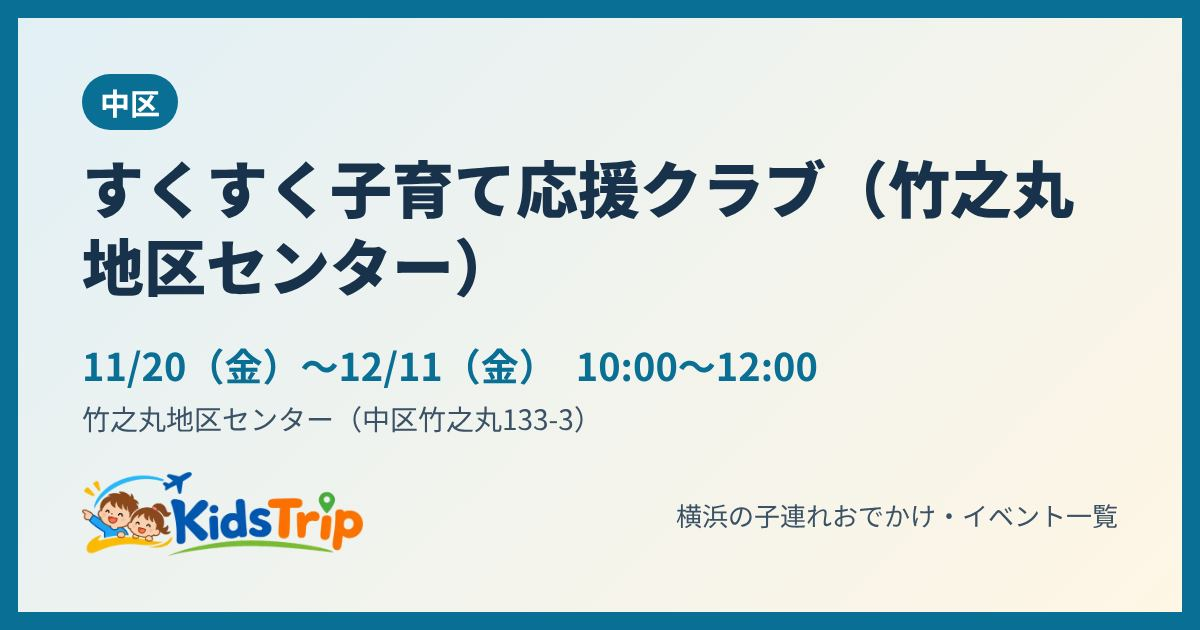
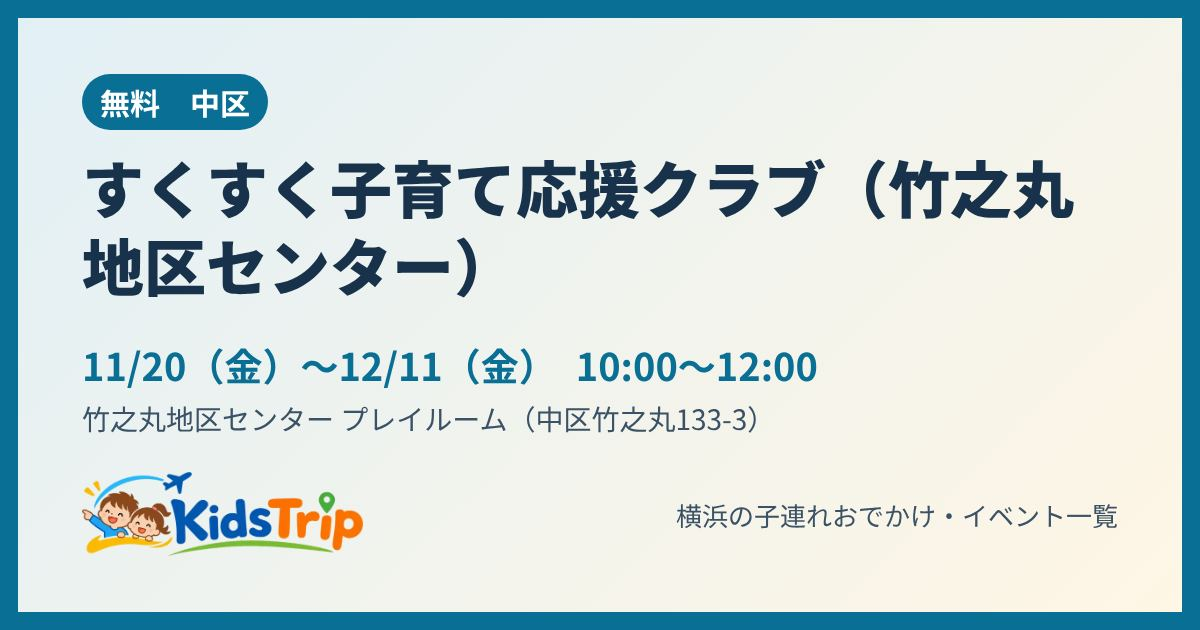
キンダーフェスタ（時間・チャレンジの料金と定員・申込ページ）、竹之丸すくすく子育て応援クラブ（無料・当日申込可）、コナン芸術花火（席の料金・市民割終了・入場口）を、利用者が送った公式ページの画面で更新
Claude-Session: https://claude.ai/code/session_014AtJ2h26UP5ukGbsStrCij

Changed region(s): [[0.2775, 0.6333, 0.6475, 0.6937], [0.0617, 0.0905, 0.2467, 0.2111]]

diff --git a/event/1ktoiqq/index.html b/event/1ktoiqq/index.html
@@ -4,12 +4,12 @@
 <meta charset="utf-8">
 <meta name="viewport" content="width=device-width, initial-scale=1">
 <title>はつらつキンダーフェスタYokohama in 横浜BUNTAI（中区）｜横浜の子連れイベント｜KidsTrip</title>
-<meta name="description" content="11月23日(月)　横浜BUNTAI（中区不老町2-7-1）。親子でいろいろなスポーツを体験できるイベント。100m日本チャンピオンのかけっこ教室、カバディ・体操教室、車いすバスケ体験のほか、ダンス・チア・スポーツチャンバラなども。">
+<meta name="description" content="11月23日(月)　横浜BUNTAI（中区不老町2-7-1）。親子でいろいろなスポーツを体験できる屋内イベント。日本選手権100m優勝の多田修平さんのかけっこ教室、カバディ日本代表主将の下川正將さんのカバディ教室、シダックスさんの体操教室、">
 <link rel="canonical" href="https://kidstrip.jp/event/1ktoiqq/">
 <meta property="og:type" content="article">
 <meta property="og:site_name" content="KidsTrip">
 <meta property="og:title" content="はつらつキンダーフェスタYokohama in 横浜BUNTAI（中区）｜横浜の子連れイベント｜KidsTrip">
-<meta property="og:description" content="11月23日(月)　横浜BUNTAI（中区不老町2-7-1）。親子でいろいろなスポーツを体験できるイベント。100m日本チャンピオンのかけっこ教室、カバディ・体操教室、車いすバスケ体験のほか、ダンス・チア・スポーツチャンバラなども。">
+<meta property="og:description" content="11月23日(月)　横浜BUNTAI（中区不老町2-7-1）。親子でいろいろなスポーツを体験できる屋内イベント。日本選手権100m優勝の多田修平さんのかけっこ教室、カバディ日本代表主将の下川正將さんのカバディ教室、シダックスさんの体操教室、">
 <meta property="og:url" content="https://kidstrip.jp/event/1ktoiqq/">
 <meta property="og:image" content="https://kidstrip.jp/og/1ktoiqq.jpg">
 <meta property="og:image:width" content="1200">
@@ -19,7 +19,7 @@
 <link rel="icon" href="../../img/favicon.png">
 <link rel="apple-touch-icon" href="../../img/apple-touch-icon.png">
 <script type="application/ld+json">{"@context": "https://schema.org", "@type": "BreadcrumbList", "itemListElement": [{"@type": "ListItem", "position": 1, "name": "トップ", "item": "https://kidstrip.jp/"}, {"@type": "ListItem", "position": 2, "name": "イベント", "item": "https://kidstrip.jp/"}, {"@type": "ListItem", "position": 3, "name": "はつらつキンダーフェスタYokohama in 横浜BUNTAI"}]}</script>
-<script type="application/ld+json">{"@context": "https://schema.org", "@type": "Event", "name": "はつらつキンダーフェスタYokohama in 横浜BUNTAI", "startDate": "2026-11-23T11:00:00+09:00", "endDate": "2026-11-23", "eventStatus": "https://schema.org/EventScheduled", "eventAttendanceMode": "https://schema.org/OfflineEventAttendanceMode", "location": {"@type": "Place", "name": "横浜BUNTAI（中区不老町2-7-1）", "address": {"@type": "PostalAddress", "addressLocality": "横浜市中区", "addressRegion": "神奈川県", "addressCountry": "JP"}}, "description": "親子でいろいろなスポーツを体験できるイベント。100m日本チャンピオンのかけっこ教室、カバディ・体操教室、車いすバスケ体験のほか、ダンス・チア・スポーツチャンバラなども。", "image": ["https://kidstrip.jp/og/1ktoiqq.jpg"], "url": "https://kidstrip.jp/event/1ktoiqq/", "isAccessibleForFree": false, "inLanguage": "ja"}</script>
+<script type="application/ld+json">{"@context": "https://schema.org", "@type": "Event", "name": "はつらつキンダーフェスタYokohama in 横浜BUNTAI", "startDate": "2026-11-23T11:00:00+09:00", "endDate": "2026-11-23", "eventStatus": "https://schema.org/EventScheduled", "eventAttendanceMode": "https://schema.org/OfflineEventAttendanceMode", "location": {"@type": "Place", "name": "横浜BUNTAI（中区不老町2-7-1）", "address": {"@type": "PostalAddress", "addressLocality": "横浜市中区", "addressRegion": "神奈川県", "addressCountry": "JP"}}, "description": "親子でいろいろなスポーツを体験できる屋内イベント。日本選手権100m優勝の多田修平さんのかけっこ教室、カバディ日本代表主将の下川正將さんのカバディ教室、シダックスさんの体操教室、車いすバスケ日本代表の網本麻里選手の体験会、横浜エクセレンスのブース、ダンス・チア・スポーツチャンバラ・サイバーホイール体験など。", "image": ["https://kidstrip.jp/og/1ktoiqq.jpg"], "url": "https://kidstrip.jp/event/1ktoiqq/", "isAccessibleForFree": false, "inLanguage": "ja"}</script>
 <style>
 :root{--paper:#f8fafc;--card:#fff;--ink:#18222e;--muted:#5b6875;--line:#dde3e9;--accent:#0a6f95;--accent-soft:#e2f0f6;--ok:#2e7d4f;--bad:#b3372b}
 *{box-sizing:border-box}body{margin:0;background:var(--paper);color:var(--ink);font-family:"Zen Kaku Gothic New","Hiragino Kaku Gothic ProN","Yu Gothic","Meiryo",sans-serif;line-height:1.7}
@@ -49,20 +49,20 @@ footer{margin:28px 0 8px;font-size:12px;color:var(--muted)}
 <ul class="chips"><li>有料</li><li>3〜9歳の子どもと保護者</li><li>屋内</li><li>雨でもOK</li></ul>
 <table class="info">
 <tr><th>日にち</th><td>11月23日(月)</td></tr>
-<tr><th>時間</th><td>11:00〜15:00</td></tr>
+<tr><th>時間</th><td>11:00〜15:00（受付10:30〜、入場10:45〜。出入り自由）</td></tr>
 <tr><th>場所</th><td>中区・横浜BUNTAI（中区不老町2-7-1）</td></tr>
-<tr><th>料金</th><td>入場500円（1人・3歳未満は無料）。「日本一」のスポーツチャレンジは子ども1人1種目1,000円（保険込み・付き添いの保護者1人まで）</td></tr>
+<tr><th>料金</th><td>入場1人500円（3歳未満は無料）。「日本一」のスポーツチャレンジは別料金：かけっこ教室1,000円・体操教室1,000円・カバディ教室500円（保険込み。カバディは概要の「各種目1,000円」と食い違っていて、情報が分かれています）</td></tr>
 <tr><th>対象</th><td>3〜9歳の子どもと保護者</td></tr>
-<tr><th>予約</th><td>申込サイトから申し込む（締め切りは公式ページに記載なし）</td></tr>
+<tr><th>予約</th><td>入場券・チャレンジとも公式の申込ページ（オンラインショップ）で購入し、確認メールを当日受付で見せてリストバンドを受け取る。チャレンジは「近日募集開始」とあり、受付開始は公式で確認を</td></tr>
 <tr><th>雨の日</th><td>雨でもOK（屋内の体育館）</td></tr>
 </table>
-<p class="sum">親子でいろいろなスポーツを体験できるイベント。100m日本チャンピオンのかけっこ教室、カバディ・体操教室、車いすバスケ体験のほか、ダンス・チア・スポーツチャンバラなども。</p>
-<p class="tip">💡 動きやすい服と靴で。チャレンジは種目ごとに参加費がかかるので、やりたいものを先に決めておくと安心</p>
-<p class="small">情報の時点：2026年11月17日　出典：横浜市スポーツ協会 公式</p>
-<div class="btns"><a class="btn main" data-act="official" href="https://yokohama-sport.or.jp/event/post-6694/" target="_blank" rel="noopener">公式ページで確認</a>
+<p class="sum">親子でいろいろなスポーツを体験できる屋内イベント。日本選手権100m優勝の多田修平さんのかけっこ教室、カバディ日本代表主将の下川正將さんのカバディ教室、シダックスさんの体操教室、車いすバスケ日本代表の網本麻里選手の体験会、横浜エクセレンスのブース、ダンス・チア・スポーツチャンバラ・サイバーホイール体験など。</p>
+<p class="tip">💡 チャレンジは時間と定員が決まっている（かけっこ11:00〜12:00 先着20名、カバディ12:15〜13:15の3回 各12名、体操13:30〜14:30 先着40名）。3歳未満はチャレンジに参加できない。動きやすい服と靴で</p>
+<p class="small">情報の時点：2026年11月18日　出典：横浜市スポーツ協会 公式・はつらつキンダーフェスタ申込ページ（利用者が送った画面・2026年11月）</p>
+<div class="btns"><a class="btn main" data-act="official" href="https://yokohama-sport.or.jp/event/post-6694/" target="_blank" rel="noopener">公式ページで確認</a><a class="btn" data-act="resv" href="https://iz8a1.hp.peraichi.com/" target="_blank" rel="noopener">予約ページへ</a>
 <a class="btn" href="/?e=1ktoiqq">一覧で見る（行き方・近くのごはん）</a>
 <button type="button" class="btn" data-share="1">🔗 リンクを送る・コピー</button>
-<a class="btn line" href="https://line.me/R/share?text=%E3%80%90%E3%81%AF%E3%81%A4%E3%82%89%E3%81%A4%E3%82%AD%E3%83%B3%E3%83%80%E3%83%BC%E3%83%95%E3%82%A7%E3%82%B9%E3%82%BFYokohama%20in%20%E6%A8%AA%E6%B5%9CBUNTAI%E3%80%91%0A11%E6%9C%8823%E6%97%A5%28%E6%9C%88%29%E3%80%8011%3A00%E3%80%9C15%3A00%0A%E5%A0%B4%E6%89%80%EF%BC%9A%E4%B8%AD%E5%8C%BA%E3%83%BB%E6%A8%AA%E6%B5%9CBUNTAI%EF%BC%88%E4%B8%AD%E5%8C%BA%E4%B8%8D%E8%80%81%E7%94%BA2-7-1%EF%BC%89%0Ahttps%3A//kidstrip.jp/event/1ktoiqq/" target="_blank" rel="noopener">LINEで送る</a></div>
+<a class="btn line" href="https://line.me/R/share?text=%E3%80%90%E3%81%AF%E3%81%A4%E3%82%89%E3%81%A4%E3%82%AD%E3%83%B3%E3%83%80%E3%83%BC%E3%83%95%E3%82%A7%E3%82%B9%E3%82%BFYokohama%20in%20%E6%A8%AA%E6%B5%9CBUNTAI%E3%80%91%0A11%E6%9C%8823%E6%97%A5%28%E6%9C%88%29%E3%80%8011%3A00%E3%80%9C15%3A00%EF%BC%88%E5%8F%97%E4%BB%9810%3A30%E3%80%9C%E3%80%81%E5%85%A5%E5%A0%B410%3A45%E3%80%9C%E3%80%82%E5%87%BA%E5%85%A5%E3%82%8A%E8%87%AA%E7%94%B1%EF%BC%89%0A%E5%A0%B4%E6%89%80%EF%BC%9A%E4%B8%AD%E5%8C%BA%E3%83%BB%E6%A8%AA%E6%B5%9CBUNTAI%EF%BC%88%E4%B8%AD%E5%8C%BA%E4%B8%8D%E8%80%81%E7%94%BA2-7-1%EF%BC%89%0Ahttps%3A//kidstrip.jp/event/1ktoiqq/" target="_blank" rel="noopener">LINEで送る</a></div>
 </article>
 
 

diff --git a/event/hyblin/index.html b/event/hyblin/index.html
@@ -4,12 +4,12 @@
 <meta charset="utf-8">
 <meta name="viewport" content="width=device-width, initial-scale=1">
 <title>すくすく子育て応援クラブ（竹之丸地区センター）（中区）｜横浜の子連れイベント｜KidsTrip</title>
-<meta name="description" content="11月20日(金)・12月11日(金)　竹之丸地区センター（中区竹之丸133-3）。竹之丸地区センターの子育て応援の会。">
+<meta name="description" content="11月20日(金)・12月11日(金)　竹之丸地区センター プレイルーム（中区竹之丸133-3）。絵本の読み聞かせや手遊びで子どもを遊ばせながら、気軽に子育ての相談ができる会。相談がなくても遊びに来てよい。">
 <link rel="canonical" href="https://kidstrip.jp/event/hyblin/">
 <meta property="og:type" content="article">
 <meta property="og:site_name" content="KidsTrip">
 <meta property="og:title" content="すくすく子育て応援クラブ（竹之丸地区センター）（中区）｜横浜の子連れイベント｜KidsTrip">
-<meta property="og:description" content="11月20日(金)・12月11日(金)　竹之丸地区センター（中区竹之丸133-3）。竹之丸地区センターの子育て応援の会。">
+<meta property="og:description" content="11月20日(金)・12月11日(金)　竹之丸地区センター プレイルーム（中区竹之丸133-3）。絵本の読み聞かせや手遊びで子どもを遊ばせながら、気軽に子育ての相談ができる会。相談がなくても遊びに来てよい。">
 <meta property="og:url" content="https://kidstrip.jp/event/hyblin/">
 <meta property="og:image" content="https://kidstrip.jp/og/hyblin.jpg">
 <meta property="og:image:width" content="1200">
@@ -19,7 +19,7 @@
 <link rel="icon" href="../../img/favicon.png">
 <link rel="apple-touch-icon" href="../../img/apple-touch-icon.png">
 <script type="application/ld+json">{"@context": "https://schema.org", "@type": "BreadcrumbList", "itemListElement": [{"@type": "ListItem", "position": 1, "name": "トップ", "item": "https://kidstrip.jp/"}, {"@type": "ListItem", "position": 2, "name": "イベント", "item": "https://kidstrip.jp/"}, {"@type": "ListItem", "position": 3, "name": "すくすく子育て応援クラブ（竹之丸地区センター）"}]}</script>
-<script type="application/ld+json">{"@context": "https://schema.org", "@type": "Event", "name": "すくすく子育て応援クラブ（竹之丸地区センター）", "startDate": "2026-11-20", "endDate": "2026-12-11", "eventStatus": "https://schema.org/EventScheduled", "eventAttendanceMode": "https://schema.org/OfflineEventAttendanceMode", "location": {"@type": "Place", "name": "竹之丸地区センター（中区竹之丸133-3）", "address": {"@type": "PostalAddress", "addressLocality": "横浜市中区", "addressRegion": "神奈川県", "addressCountry": "JP"}}, "description": "竹之丸地区センターの子育て応援の会。", "image": ["https://kidstrip.jp/og/hyblin.jpg"], "url": "https://kidstrip.jp/event/hyblin/", "isAccessibleForFree": false, "inLanguage": "ja"}</script>
+<script type="application/ld+json">{"@context": "https://schema.org", "@type": "Event", "name": "すくすく子育て応援クラブ（竹之丸地区センター）", "startDate": "2026-11-20", "endDate": "2026-12-11", "eventStatus": "https://schema.org/EventScheduled", "eventAttendanceMode": "https://schema.org/OfflineEventAttendanceMode", "location": {"@type": "Place", "name": "竹之丸地区センター プレイルーム（中区竹之丸133-3）", "address": {"@type": "PostalAddress", "addressLocality": "横浜市中区", "addressRegion": "神奈川県", "addressCountry": "JP"}}, "description": "絵本の読み聞かせや手遊びで子どもを遊ばせながら、気軽に子育ての相談ができる会。相談がなくても遊びに来てよい。", "image": ["https://kidstrip.jp/og/hyblin.jpg"], "url": "https://kidstrip.jp/event/hyblin/", "isAccessibleForFree": true, "inLanguage": "ja"}</script>
 <style>
 :root{--paper:#f8fafc;--card:#fff;--ink:#18222e;--muted:#5b6875;--line:#dde3e9;--accent:#0a6f95;--accent-soft:#e2f0f6;--ok:#2e7d4f;--bad:#b3372b}
 *{box-sizing:border-box}body{margin:0;background:var(--paper);color:var(--ink);font-family:"Zen Kaku Gothic New","Hiragino Kaku Gothic ProN","Yu Gothic","Meiryo",sans-serif;line-height:1.7}
@@ -46,23 +46,23 @@ footer{margin:28px 0 8px;font-size:12px;color:var(--muted)}
 <p class="crumb"><a href="/">トップ</a> ＞ <a href="/">イベント</a> ＞ すくすく子育て応援クラブ（竹之丸地区センター）</p>
 <article class="card">
 <h1>すくすく子育て応援クラブ（竹之丸地区センター）</h1>
-<ul class="chips"><li>料金要確認</li><li>子育て中の親子（対象は未確認）</li><li>屋内</li><li>雨でもOK</li></ul>
+<ul class="chips"><li>無料</li><li>乳児・未就学児と保護者</li><li>屋内</li><li>雨でもOK</li></ul>
 <table class="info">
 <tr><th>日にち</th><td>11月20日(金)・12月11日(金)</td></tr>
 <tr><th>時間</th><td>10:00〜12:00</td></tr>
-<tr><th>場所</th><td>中区・竹之丸地区センター（中区竹之丸133-3）</td></tr>
-<tr><th>料金</th><td>公式ページで未確認（くわしくは電話で）</td></tr>
-<tr><th>対象</th><td>子育て中の親子（対象は未確認）</td></tr>
-<tr><th>予約</th><td>公式ページで未確認（くわしくは電話で） 045-651-5575</td></tr>
+<tr><th>場所</th><td>中区・竹之丸地区センター プレイルーム（中区竹之丸133-3）</td></tr>
+<tr><th>料金</th><td>無料</td></tr>
+<tr><th>対象</th><td>乳児・未就学児と保護者</td></tr>
+<tr><th>予約</th><td>電話（045-651-5575）か来館で申込。当日申込もできる（定員15人）</td></tr>
 <tr><th>雨の日</th><td>雨でもOK（屋内なので雨でもOK）</td></tr>
 </table>
-<p class="sum">竹之丸地区センターの子育て応援の会。</p>
-<p class="tip">💡 対象・料金・申し込みは一覧に載っておらず未確認。行く前に電話（045-651-5575）で確かめて。</p>
-<p class="small">情報の時点：2026年11月17日　出典：竹之丸地区センター公式（講座・イベント一覧）</p>
+<p class="sum">絵本の読み聞かせや手遊びで子どもを遊ばせながら、気軽に子育ての相談ができる会。相談がなくても遊びに来てよい。</p>
+<p class="tip">💡 12/11の回の内容は公式で確認を。</p>
+<p class="small">情報の時点：2026年11月18日　出典：竹之丸地区センター公式（利用者が送った画面・2026年11月）</p>
 <div class="btns"><a class="btn main" data-act="official" href="https://www.nakakumin.com/takenomaruchikusen/smartphone/eventdetail.cgi?1763856946" target="_blank" rel="noopener">公式ページで確認</a>
 <a class="btn" href="/?e=hyblin">一覧で見る（行き方・近くのごはん）</a>
 <button type="button" class="btn" data-share="1">🔗 リンクを送る・コピー</button>
-<a class="btn line" href="https://line.me/R/share?text=%E3%80%90%E3%81%99%E3%81%8F%E3%81%99%E3%81%8F%E5%AD%90%E8%82%B2%E3%81%A6%E5%BF%9C%E6%8F%B4%E3%82%AF%E3%83%A9%E3%83%96%EF%BC%88%E7%AB%B9%E4%B9%8B%E4%B8%B8%E5%9C%B0%E5%8C%BA%E3%82%BB%E3%83%B3%E3%82%BF%E3%83%BC%EF%BC%89%E3%80%91%0A11%E6%9C%8820%E6%97%A5%28%E9%87%91%29%E3%83%BB12%E6%9C%8811%E6%97%A5%28%E9%87%91%29%E3%80%8010%3A00%E3%80%9C12%3A00%0A%E5%A0%B4%E6%89%80%EF%BC%9A%E4%B8%AD%E5%8C%BA%E3%83%BB%E7%AB%B9%E4%B9%8B%E4%B8%B8%E5%9C%B0%E5%8C%BA%E3%82%BB%E3%83%B3%E3%82%BF%E3%83%BC%EF%BC%88%E4%B8%AD%E5%8C%BA%E7%AB%B9%E4%B9%8B%E4%B8%B8133-3%EF%BC%89%0Ahttps%3A//kidstrip.jp/event/hyblin/" target="_blank" rel="noopener">LINEで送る</a></div>
+<a class="btn line" href="https://line.me/R/share?text=%E3%80%90%E3%81%99%E3%81%8F%E3%81%99%E3%81%8F%E5%AD%90%E8%82%B2%E3%81%A6%E5%BF%9C%E6%8F%B4%E3%82%AF%E3%83%A9%E3%83%96%EF%BC%88%E7%AB%B9%E4%B9%8B%E4%B8%B8%E5%9C%B0%E5%8C%BA%E3%82%BB%E3%83%B3%E3%82%BF%E3%83%BC%EF%BC%89%E3%80%91%0A11%E6%9C%8820%E6%97%A5%28%E9%87%91%29%E3%83%BB12%E6%9C%8811%E6%97%A5%28%E9%87%91%29%E3%80%8010%3A00%E3%80%9C12%3A00%0A%E5%A0%B4%E6%89%80%EF%BC%9A%E4%B8%AD%E5%8C%BA%E3%83%BB%E7%AB%B9%E4%B9%8B%E4%B8%B8%E5%9C%B0%E5%8C%BA%E3%82%BB%E3%83%B3%E3%82%BF%E3%83%BC%20%E3%83%97%E3%83%AC%E3%82%A4%E3%83%AB%E3%83%BC%E3%83%A0%EF%BC%88%E4%B8%AD%E5%8C%BA%E7%AB%B9%E4%B9%8B%E4%B8%B8133-3%EF%BC%89%0Ahttps%3A//kidstrip.jp/event/hyblin/" target="_blank" rel="noopener">LINEで送る</a></div>
 </article>
 
 

diff --git a/event/13npv30/index.html b/event/13npv30/index.html
@@ -51,14 +51,14 @@ footer{margin:28px 0 8px;font-size:12px;color:var(--muted)}
 <tr><th>日にち</th><td>11月21日(土)</td></tr>
 <tr><th>時間</th><td>13:00開場・17:00開演</td></tr>
 <tr><th>場所</th><td>中区・横浜・山下ふ頭</td></tr>
-<tr><th>料金</th><td>S席8,900円〜（未就学児は席が不要なら無料）</td></tr>
+<tr><th>料金</th><td>S席8,900円、S席（グッズ付き）12,500円、最前ブロックプレミアム席（グッズ付き）14,500円。未就学児はひざの上で見るならチケット不要（席が要るなら必要）</td></tr>
 <tr><th>対象</th><td>全年齢</td></tr>
-<tr><th>予約</th><td>チケット制（全席有料・無料観覧エリアなし）</td></tr>
+<tr><th>予約</th><td>チケット制（全席有料。イープラス・チケットぴあ・ローソン・アソビューなど。1回4枚まで）</td></tr>
 <tr><th>雨の日</th><td>天気に注意（雨でも開催、荒天時は中止）</td></tr>
 </table>
 <p class="sum">コナンの歴代主題歌や劇中音楽に合わせて花火が上がる、TVアニメ30周年記念の一夜限りのショー。</p>
-<p class="tip">💡 横浜市民割（先着）もあり。外から見る無料エリアはないので注意</p>
-<p class="small">出典：公式サイト</p>
+<p class="tip">💡 横浜市民割（7,700円・先着200名）は予定枚数終了。入場口は「山下公園ゲート」だけ。コインロッカー・クロークはないので大きな荷物は持っていかない。チケットのない人は会場に入れない</p>
+<p class="small">情報の時点：2026年11月18日　出典：「名探偵コナン」芸術花火2026 公式（利用者が送った画面・2026年11月）</p>
 <div class="btns"><a class="btn main" data-act="official" href="https://www.ytv.co.jp/conanhanabi/" target="_blank" rel="noopener">公式ページで確認</a>
 <a class="btn" href="/?e=13npv30">一覧で見る（行き方・近くのごはん）</a>
 <button type="button" class="btn" data-share="1">🔗 リンクを送る・コピー</button>

diff --git a/event/z2sk0q/index.html b/event/z2sk0q/index.html
@@ -58,7 +58,7 @@ footer{margin:28px 0 8px;font-size:12px;color:var(--muted)}
 </table>
 <p class="sum">栄区の子育て支援者と一緒に、広い室内で遊ぶ会。11月は「米粉ねんどあそび」。</p>
 <p class="tip">💡 飲み物を持っていく。汚れてもいい服で。</p>
-<p class="small">情報の時点：2026年11月16日　出典：豊田地区センター公式（講座の詳細ページ）</p>
+<p class="small">情報の時点：2026年11月18日　出典：豊田地区センター公式（利用者が送った画面・2026年11月）</p>
 <div class="btns"><a class="btn main" data-act="official" href="https://www.sakaekunosisetu.com/toyoda/smartphone/eventdetail.cgi?1706511249" target="_blank" rel="noopener">公式ページで確認</a>
 <a class="btn" href="/?e=z2sk0q">一覧で見る（行き方・近くのごはん）</a>
 <button type="button" class="btn" data-share="1">🔗 リンクを送る・コピー</button>

diff --git a/index.html b/index.html
@@ -717,7 +717,7 @@ section[id], div[id="events"] { scroll-margin-top: 56px; }
   </footer>
 </div>
 
-<script src="js/data.js?v=fe4d4775da" defer></script>
+<script src="js/data.js?v=493313a4c7" defer></script>
 <script src="js/app.js?v=11c97b8331" defer></script>
 </body>
 </html>
